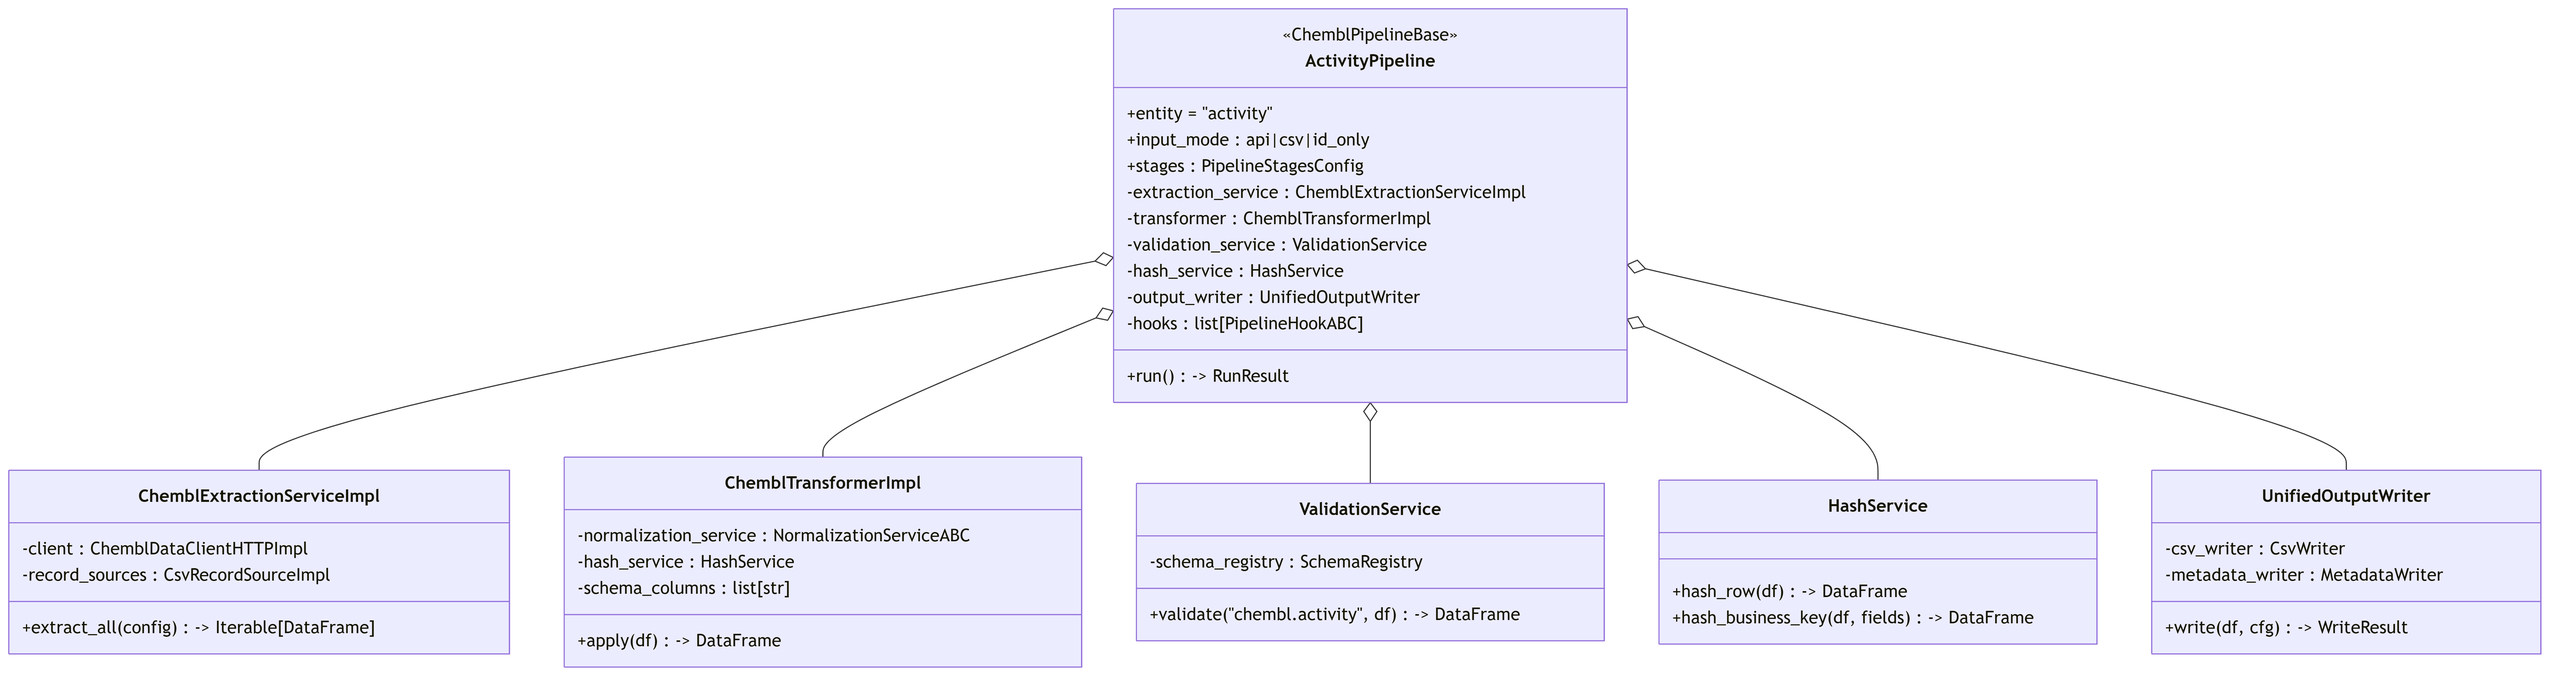
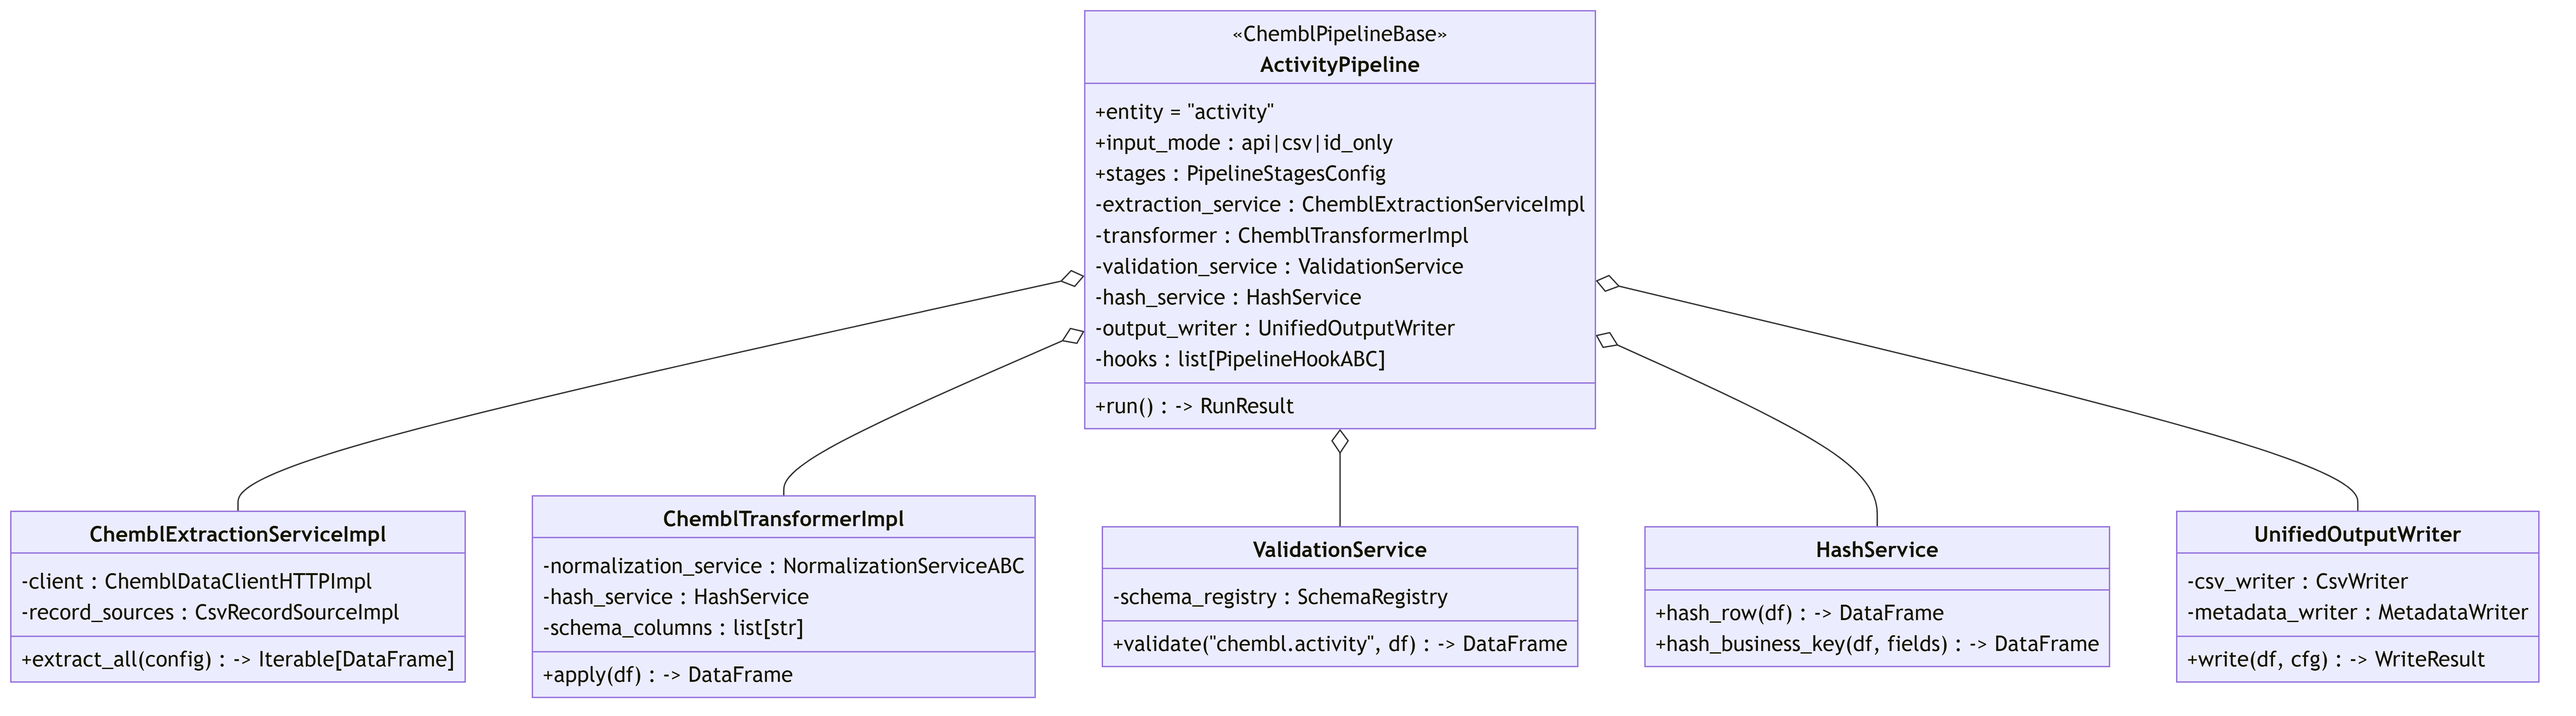
1

diff --git a/src/bioetl/interfaces/cli/app.py b/src/bioetl/interfaces/cli/app.py
@@ -21,6 +21,64 @@ app = typer.Typer(help="BioETL - Bioactivity Data Acquisition ETL")
 console = Console()
 
 
+def _infer_config_path(pipeline_name: str) -> str | None:
+    parts = pipeline_name.split("_")
+    if len(parts) >= 2:
+        entity, provider = parts[0], parts[1]
+        return f"configs/pipelines/{provider}/{entity}.yaml"
+    return None
+
+
+def _resolve_config_path(config: str) -> Path:
+    p = Path(config)
+    if p.exists():
+        return p
+    from bioetl.infrastructure.config.sources import get_configs_root
+
+    root = get_configs_root(None)
+    candidate = (root / p).resolve()
+    if candidate.exists():
+        return candidate
+    raise FileNotFoundError(f"Config file not found: {config}")
+
+
+def _build_config(config_path: Path, profile: str | None) -> "PipelineConfig":
+    config_loader = create_config_loader()
+    configs_root = (
+        config_path.parent.parent.parent
+        if config_path.parent.name == "pipelines"
+        else Path("configs")
+    )
+    return build_runtime_config(
+        config_path=config_path,
+        configs_root=configs_root,
+        loader=config_loader,
+        profile=profile,
+    )
+
+
+def _apply_output_override(pipeline_config: "PipelineConfig", output: str | None) -> None:
+    if not output:
+        return
+    output_path = Path(output)
+    output_path.mkdir(parents=True, exist_ok=True)
+    pipeline_config.output_path = str(output_path)
+    if hasattr(pipeline_config, "storage"):
+        pipeline_config.storage.output_path = str(output_path)
+
+
+def _create_orchestrator(pipeline_name: str, pipeline_config: "PipelineConfig") -> PipelineOrchestrator:
+    def _provider_loader_factory() -> object:
+        return create_provider_loader()
+
+    return PipelineOrchestrator(
+        pipeline_name=pipeline_name,
+        config=pipeline_config,
+        provider_loader_factory=_provider_loader_factory,
+        container_factory=build_default_container,
+    )
+
+
 @app.command()
 def list_pipelines() -> None:
     """List all available pipelines."""
@@ -80,67 +138,16 @@ def run(
 ) -> None:
     """Run a pipeline."""
     try:
-        # Resolve config path
-        if config is None:
-            # Try to infer from pipeline name:
-            # activity_chembl -> configs/pipelines/chembl/activity.yaml
-            parts = pipeline_name.split("_")
-            if len(parts) >= 2:
-                entity = parts[0]
-                provider = parts[1]
-                config = f"configs/pipelines/{provider}/{entity}.yaml"
-            else:
-                console.print(
-                    "[red]Error:[/red] Cannot infer config path for "
-                    f"{pipeline_name}. Use --config."
-                )
-                raise typer.Exit(1)
-
-        config_path = Path(config)
-        if not config_path.exists():
-            from bioetl.infrastructure.config.sources import get_configs_root
-
-            root = get_configs_root(None)
-            candidate = (root / config_path).resolve()
-            if candidate.exists():
-                config_path = candidate
-            else:
-                console.print(f"[red]Error:[/red] Config file not found: {config}")
-                raise typer.Exit(1)
-
-        # Load config
-        config_loader = create_config_loader()
-        configs_root = (
-            config_path.parent.parent.parent
-            if config_path.parent.name == "pipelines"
-            else Path("configs")
-        )
-        pipeline_config = build_runtime_config(
-            config_path=config_path,
-            configs_root=configs_root,
-            loader=config_loader,
-            profile=profile,
-        )
-
-        # Override output path if provided
-        if output:
-            output_path = Path(output)
-            output_path.mkdir(parents=True, exist_ok=True)
-            pipeline_config.output_path = str(output_path)
-            if hasattr(pipeline_config, "storage"):
-                pipeline_config.storage.output_path = str(output_path)
-
-        # Create orchestrator
-        def _provider_loader_factory() -> object:
-            """Factory returning provider loader instance for orchestrator."""
-            return create_provider_loader()
-
-        orchestrator = PipelineOrchestrator(
-            pipeline_name=pipeline_name,
-            config=pipeline_config,
-            provider_loader_factory=_provider_loader_factory,
-            container_factory=build_default_container,
-        )
+        inferred = _infer_config_path(pipeline_name) if config is None else config
+        if inferred is None:
+            console.print(
+                "[red]Error:[/red] Cannot infer config path. Use --config."
+            )
+            raise typer.Exit(1)
+        config_path = _resolve_config_path(inferred)
+        pipeline_config = _build_config(config_path, profile)
+        _apply_output_override(pipeline_config, output)
+        orchestrator = _create_orchestrator(pipeline_name, pipeline_config)
 
         # Run pipeline
         console.print("Starting pipeline")
